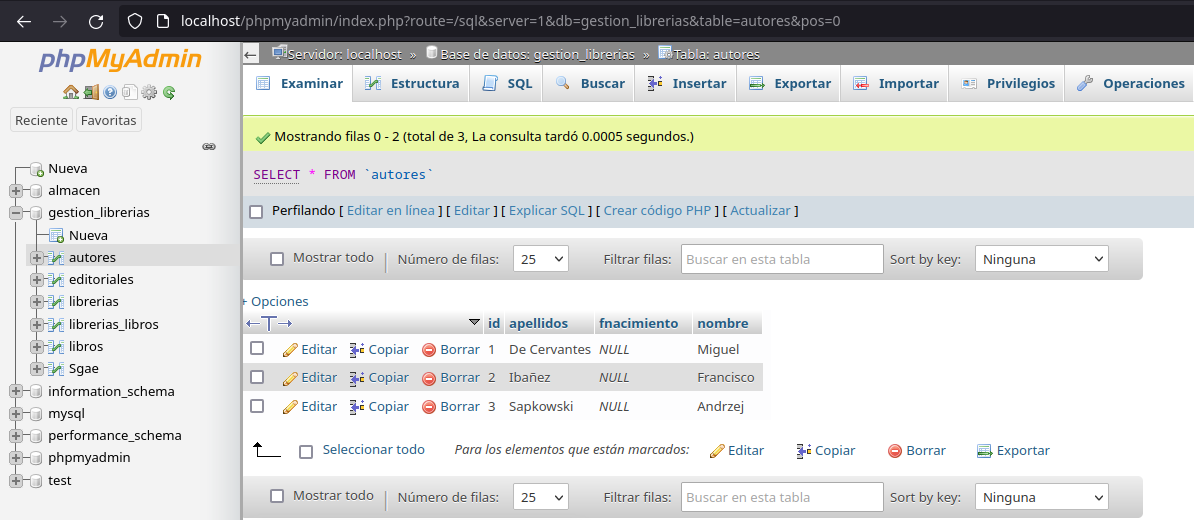
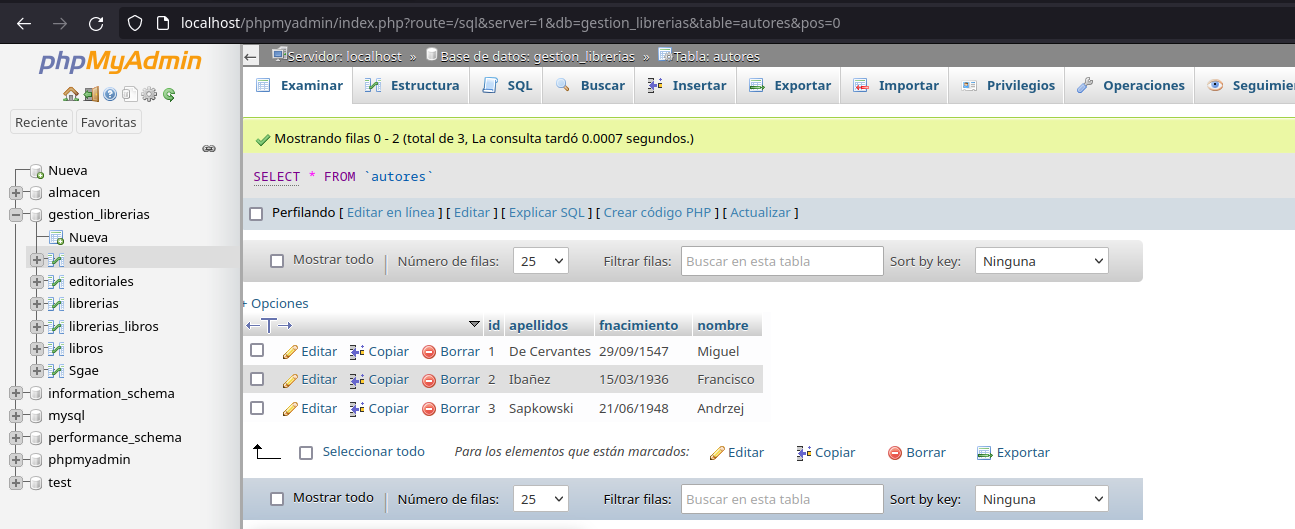
Cambios menores

Changed region(s): [[0.0, 0.0308, 1.0, 1.0], [0.0, 0.3077, 0.1549, 0.9538]]

diff --git a/Actividad3/src/main/java/modelo/entidad/Autor.java b/Actividad3/src/main/java/modelo/entidad/Autor.java
@@ -35,9 +35,8 @@ public class Autor {
 	private String nombre;
 
 	private String apellidos;
-
-	@Temporal(TemporalType.DATE)
-	private Date fnacimiento;
+	
+	private String fnacimiento;
 
 	// Relación bidireccional one to many con Libro
 	// Especificamos CascadeType.ALL
@@ -53,7 +52,7 @@ public class Autor {
 		super();
 	}
 
-	public Autor(Integer id, String nombre, String apellidos, Date fnacimiento, List<Libro> librosDelAutor, Sgae sgae) {
+	public Autor(Integer id, String nombre, String apellidos, String fnacimiento, List<Libro> librosDelAutor, Sgae sgae) {
 		super();
 		this.id = id;
 		this.nombre = nombre;
@@ -88,11 +87,11 @@ public class Autor {
 		this.apellidos = apellidos;
 	}
 
-	public Date getFnacimiento() {
+	public String getFnacimiento() {
 		return fnacimiento;
 	}
 
-	public void setFnacimiento(Date fnacimiento) {
+	public void setFnacimiento(String fnacimiento) {
 		this.fnacimiento = fnacimiento;
 	}
 

diff --git a/Actividad3/src/main/java/test/InitBBDD.java b/Actividad3/src/main/java/test/InitBBDD.java
@@ -82,9 +82,9 @@ public class InitBBDD {
 	private static void altasRequerimiento() {
 
 		// Creación de 3 autores
-		autor1 = new Autor(null, "Miguel", "De Cervantes", null, null, null);
-		autor2 = new Autor(null, "Francisco", "Ibañez", null, null, null);
-		autor3 = new Autor(null, "Andrzej", "Sapkowski", null, null, null);
+		autor1 = new Autor(null, "Miguel", "De Cervantes", "29/09/1547", null, null);
+		autor2 = new Autor(null, "Francisco", "Ibañez", "15/03/1936", null, null);
+		autor3 = new Autor(null, "Andrzej", "Sapkowski", "21/06/1948", null, null);
 		listaAutores.add(autor1);
 		listaAutores.add(autor2);
 		listaAutores.add(autor3);
